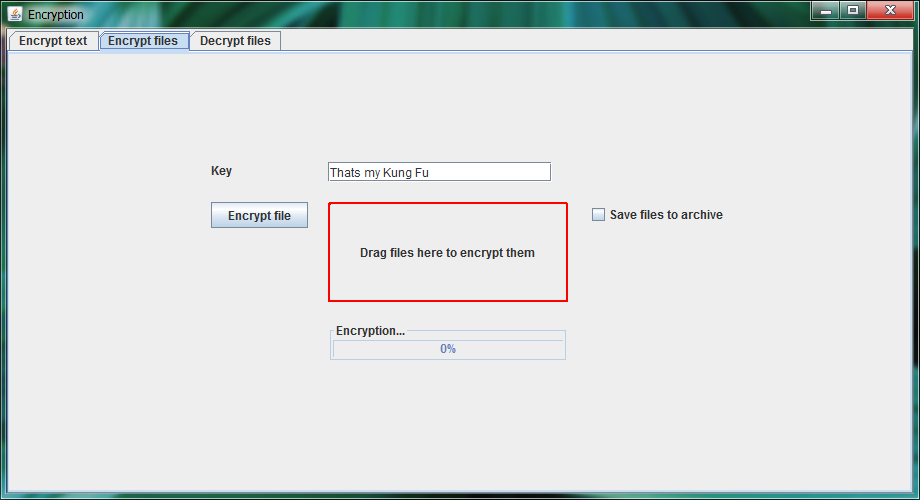
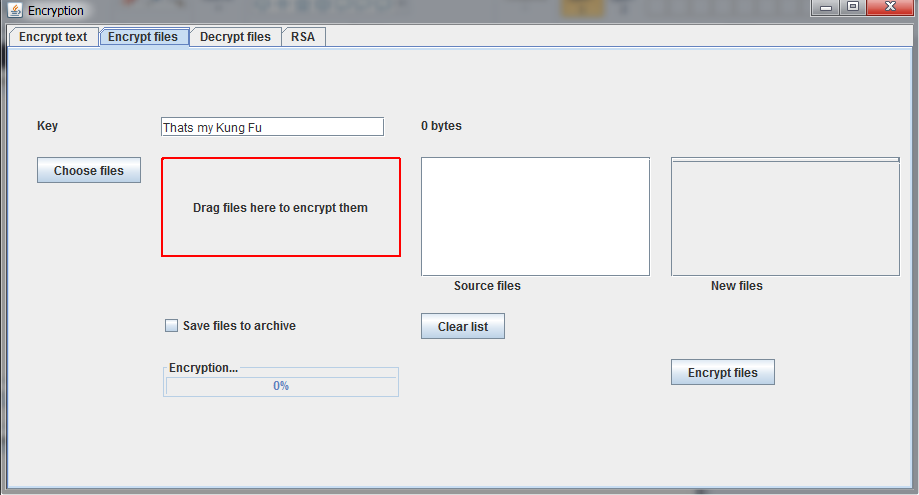
Updated class TabDecryptFiles, jar file

diff --git a/src/Windows/TabDecryptFiles.java b/src/Windows/TabDecryptFiles.java
@@ -13,6 +13,7 @@ import java.awt.event.ActionEvent;
 import java.awt.event.ActionListener;
 import java.awt.event.KeyAdapter;
 import java.awt.event.KeyEvent;
+import java.awt.event.KeyListener;
 import java.io.File;
 import java.util.ArrayList;
 import java.util.List;
@@ -28,34 +29,40 @@ import javax.swing.JList;
 import javax.swing.JOptionPane;
 import javax.swing.JPanel;
 import javax.swing.JProgressBar;
+import javax.swing.JScrollPane;
+import javax.swing.JTable;
 import javax.swing.JTextField;
+import javax.swing.ListSelectionModel;
 import javax.swing.Timer;
 import javax.swing.border.Border;
+import javax.swing.table.DefaultTableModel;
 
 import AES.Decrypt;
 
 public class TabDecryptFiles extends JPanel {
 	private static final long serialVersionUID = 1L;
-	private GridBagConstraints gbc;
+	private JLabel str_key = new JLabel("Key");
+	private JLabel str_amount_bytes = new JLabel("0 bytes");
 
-	private JButton btn_decrypt_file = new JButton("Decrypt file");
+	private JButton btn_choose_files = new JButton("Choose files");
 	private JButton btn_decrypt_files = new JButton("Decrypt files");
 	private JButton open_file = new JButton("Open file to decrypt");
+	private JButton btn_clear_list = new JButton("Clear list");
+
 	private JTextField jtf_key;
-
-	private JLabel str_key = new JLabel("Key");
+	private GridBagConstraints gbc;
 	private JCheckBox checkBoxArchive = new JCheckBox("Save files to archive");
-	private DefaultListModel<String> defaultListModel = new DefaultListModel<String>();
+	private DefaultListModel<String> mDefaultListModel = new DefaultListModel<String>();
+	private DefaultTableModel mDefaultTableModel = new DefaultTableModel();
+	private Dimension dimenstionTable = new Dimension(230, 120);
 
-	private Decrypt decryptFile;
-	private long sizeOfSourceFiles = 0;
+	private Decrypt mDecryptFile;
 	private List<File> mArrayFiles = new ArrayList<File>();
+	private long mSizeOfSourceFiles = 0;
 
 	public TabDecryptFiles() {
-		setLayout(new GridBagLayout());
 
-		JList<String> filesList = new JList<String>(defaultListModel);
-		filesList.setPreferredSize(new Dimension(240, 100));
+		setLayout(new GridBagLayout());
 
 		JProgressBar progressBar = new JProgressBar();
 		progressBar.setStringPainted(true);
@@ -68,24 +75,63 @@ public class TabDecryptFiles extends JPanel {
 		Timer timer = new Timer(100, new ActionListener() {
 			@Override
 			public void actionPerformed(ActionEvent arg0) {
-				long valuePercent = (100 * decryptFile.getCommonSizeOfFiles()) / sizeOfSourceFiles;
+				long valuePercent = (100 * mDecryptFile.getCommonSizeOfFiles()) / mSizeOfSourceFiles;
 				progressBar.setValue((int) valuePercent);
-				if (decryptFile.threadIsAlive() == false) {
+				if (mDecryptFile.threadIsAlive() == false) {
 					((Timer) arg0.getSource()).stop();
-					JOptionPane.showMessageDialog(null, "File was decrypted!!!");
+					JOptionPane.showMessageDialog(null, "Files were encrypted!!!");
+					progressBar.setValue(0);
 				}
 			}
 		});
-		JPanel panelDecrypt = new JPanel();
+		JList<String> list = new JList<String>(mDefaultListModel);
+		JScrollPane scrollList = new JScrollPane(list);
+		scrollList.setPreferredSize(dimenstionTable);
+		Box listBoxSourceFiles = new Box(BoxLayout.Y_AXIS);
+		listBoxSourceFiles.add(scrollList);
+		listBoxSourceFiles.add(new JLabel("Encrypted files"));
 
+		list.addKeyListener(new KeyListener() {
+			public void keyPressed(KeyEvent e) {
+				if (e.getKeyCode() == KeyEvent.VK_DELETE) {
+					int selectedIndex = list.getSelectedIndex();
+					if (selectedIndex != -1) {
+						mSizeOfSourceFiles -= mArrayFiles.get(selectedIndex).length();
+						mArrayFiles.remove(selectedIndex);
+						mDefaultListModel.remove(selectedIndex);
+						mDefaultTableModel.removeRow(selectedIndex);
+					}
+					showSizeOfFiles();
+				}
+			}
+
+			public void keyReleased(KeyEvent e) {
+			}
+
+			public void keyTyped(KeyEvent e) {
+			}
+		});
+
+		JPanel panelDecrypt = new JPanel();
 		panelDecrypt.setLayout(new BoxLayout(panelDecrypt, BoxLayout.X_AXIS));
 
 		panelDecrypt.setPreferredSize(new Dimension(240, 100));
 		panelDecrypt.setVisible(true);
 
 		panelDecrypt.add(Box.createHorizontalGlue());
-		panelDecrypt.add(new JLabel("Drag files here to decrypt them"));
+		panelDecrypt.add(new JLabel("Drag files here to encrypt them"));
 		panelDecrypt.add(Box.createHorizontalGlue());
+
+		JTable table = new JTable(mDefaultTableModel);
+		mDefaultTableModel.addColumn("");
+		table.setShowGrid(false);
+		table.setSelectionMode(ListSelectionModel.SINGLE_SELECTION);
+		JScrollPane scrollTable = new JScrollPane(table);
+		scrollTable.setColumnHeader(null);
+		scrollTable.setPreferredSize(dimenstionTable);
+		Box tableBox = new Box(BoxLayout.Y_AXIS);
+		tableBox.add(scrollTable);
+		tableBox.add(new JLabel("New decrypted files"));
 
 		panelDecrypt.setDropTarget(new DropTarget() {
 			private static final long serialVersionUID = 1L;
@@ -93,15 +139,16 @@ public class TabDecryptFiles extends JPanel {
 			public synchronized void drop(DropTargetDropEvent evt) {
 				try {
 					evt.acceptDrop(DnDConstants.ACTION_COPY);
-					sizeOfSourceFiles = 0;
 					@SuppressWarnings("unchecked")
 					List<File> droppedFiles = (List<File>) evt.getTransferable()
 							.getTransferData(DataFlavor.javaFileListFlavor);
 					for (File file : droppedFiles) {
 						mArrayFiles.add(file);
-						defaultListModel.addElement(file.getName());
-						sizeOfSourceFiles = sizeOfSourceFiles + (file.length() - 81980);
+						mDefaultTableModel.addRow(new String[] { file.getName() + "_encrypted.png" });
+						mDefaultListModel.addElement(file.getName());
+						mSizeOfSourceFiles += file.length();
 					}
+					showSizeOfFiles();
 				} catch (Exception ex) {
 					ex.printStackTrace();
 				}
@@ -124,64 +171,65 @@ public class TabDecryptFiles extends JPanel {
 					e.consume();
 			}
 		});
-
-		btn_decrypt_file.addActionListener(new ActionListener() {
+		// Choose files with OpenDialogWindow
+		btn_choose_files.addActionListener(new ActionListener() {
 			@Override
 			public void actionPerformed(ActionEvent arg0) {
-				sizeOfSourceFiles = 0;
-				File sourceFile = null;
-				File outputFile = null;
 				JFileChooser fileChooser = new JFileChooser(System.getProperty("user.dir"));
 				fileChooser.setPreferredSize(new Dimension(1000, 600));
+				fileChooser.setMultiSelectionEnabled(true);
 				if (fileChooser.showOpenDialog(open_file) == JFileChooser.APPROVE_OPTION) {
-					sourceFile = fileChooser.getSelectedFile();
-					sizeOfSourceFiles = sourceFile.length() - 81980;
-				}
-				if (fileChooser.showSaveDialog(fileChooser) == JFileChooser.APPROVE_OPTION) {
-					outputFile = fileChooser.getSelectedFile();
-				}
-				if (sourceFile != null && outputFile != null) {
-					try {
-						decryptFile = new Decrypt(jtf_key.getText());
-						decryptFile.DecryptFile(sourceFile, outputFile.getPath());
-						timer.start();
-					} catch (NullPointerException e) {
-						System.out.println("NullPointerException in btn_decrypt_file: " + e);
+					File[] arrayFiles = fileChooser.getSelectedFiles();
+					for (int i = 0; i < arrayFiles.length; i++) {
+						mArrayFiles.add(arrayFiles[i]);
+						mDefaultListModel.addElement(arrayFiles[i].getName());
+						mDefaultTableModel.addRow(new String[] { arrayFiles[i].getName() + "_encrypted.png" });
+						mSizeOfSourceFiles += arrayFiles[i].length();
 					}
+					showSizeOfFiles();
 				}
-			}
 
+			}
 		});
 		btn_decrypt_files.addActionListener(new ActionListener() {
 			@Override
 			public void actionPerformed(ActionEvent arg0) {
-				JFileChooser f = new JFileChooser();
-				f.setFileSelectionMode(JFileChooser.DIRECTORIES_ONLY);
-				f.showSaveDialog(null);
-				List<String> outputPaths = new ArrayList<String>();
-				if (f.getSelectedFile() != null) {
-					// Check if some file already exist in that directory
-					boolean allowToSave = true;
-					for (int i = 0; i < mArrayFiles.size(); i++) {
-						File tempFile = new File(f.getSelectedFile() + "/" + mArrayFiles.get(i).getName());
-						if (tempFile.exists() == true) {
-							allowToSave = false;
-						}
-					}
-					if (allowToSave == true) {
+				if (mArrayFiles.size() == 0) {
+					JOptionPane.showMessageDialog(null, "Choose files first");
+				} else {
+					// Choose directory
+					JFileChooser f = new JFileChooser();
+					f.setFileSelectionMode(JFileChooser.DIRECTORIES_ONLY);
+					f.showSaveDialog(null);
+
+					List<String> outputPaths = new ArrayList<String>();
+
+					if (f.getSelectedFile() != null) {
+						mSizeOfSourceFiles = 0; // Calculate common size of
+												// files from scratch
 						for (int i = 0; i < mArrayFiles.size(); i++) {
-							outputPaths.add(f.getSelectedFile() + "/" + mArrayFiles.get(i).getName());
+							mSizeOfSourceFiles += mArrayFiles.get(i).length();
 						}
-						decryptFile = new Decrypt(jtf_key.getText());
-						decryptFile.DecryptGroupsOfFiles(mArrayFiles, outputPaths);
-						timer.start();
-					} else {
-						JOptionPane.showMessageDialog(null, "File already exist in this folder!");
+						for (int count = 0; count < mDefaultTableModel.getRowCount(); count++) {
+							outputPaths.add(
+									f.getSelectedFile() + "/" + mDefaultTableModel.getValueAt(count, 0).toString());
+						}
 					}
-
+					mDecryptFile = new Decrypt(jtf_key.getText());
+					mDecryptFile.DecryptGroupsOfFiles(mArrayFiles, outputPaths);
+					timer.start();
 				}
-			}
 
+			}
+		});
+		btn_clear_list.addActionListener(new ActionListener() {
+			@Override
+			public void actionPerformed(ActionEvent arg0) {
+				mArrayFiles.clear();
+				mDefaultListModel.removeAllElements();
+				mDefaultTableModel.setRowCount(0);
+				mSizeOfSourceFiles = 0;
+			}
 		});
 		gbc.gridx = 0;
 		gbc.gridy = 0;
@@ -198,7 +246,7 @@ public class TabDecryptFiles extends JPanel {
 
 		gbc.gridx = 0;
 		gbc.gridy = 1;
-		add(btn_decrypt_file, gbc);
+		add(btn_choose_files, gbc);
 
 		gbc.gridx = 1;
 		gbc.gridy = 3;
@@ -213,10 +261,26 @@ public class TabDecryptFiles extends JPanel {
 		gbc.gridy = 1;
 		gbc.gridwidth = 2;
 		gbc.gridheight = 2;
-		add(filesList, gbc);
+		add(listBoxSourceFiles, gbc);
+
+		gbc.gridx = 4;
+		gbc.gridy = 1;
+		add(tableBox, gbc);
 
 		gbc.gridx = 2;
 		gbc.gridy = 3;
+		add(btn_clear_list, gbc);
+
+		gbc.gridx = 4;
+		gbc.gridy = 5;
 		add(btn_decrypt_files, gbc);
+
+		gbc.gridx = 2;
+		gbc.gridy = 0;
+		add(str_amount_bytes, gbc);
+	}
+
+	private void showSizeOfFiles() {
+		str_amount_bytes.setText(Long.toString((mSizeOfSourceFiles / 1024) / 1024) + " megabytes");
 	}
 }

diff --git a/src/Windows/TabEncryptFiles.java b/src/Windows/TabEncryptFiles.java
@@ -54,7 +54,7 @@ public class TabEncryptFiles extends JPanel {
 	private JCheckBox checkBoxArchive = new JCheckBox("Save files to archive");
 	private DefaultListModel<String> mDefaultListModel = new DefaultListModel<String>();
 	private DefaultTableModel mDefaultTableModel = new DefaultTableModel();
-	private Dimension dimenstionTable = new Dimension(160, 120);
+	private Dimension dimenstionTable = new Dimension(230, 120);
 
 	private Encrypt mEncryptFile;
 	private List<File> mArrayFiles = new ArrayList<File>();

diff --git a/README.md b/README.md
@@ -3,6 +3,6 @@
 # This application allow to encrypt text, files  <br />
 # and save encrypted information in picture
 
+![Alt text](/screenshots/EncryptText.png?raw=true "firstTab") <br/>
 ![Alt text](/screenshots/EncryptFiles.png?raw=true "secondTab") <br/>
-![Alt text](/screenshots/EncryptText.png?raw=true "firstTab")
-
+![Alt text](/screenshots/DecryptFiles.png?raw=true "thirdTab")
